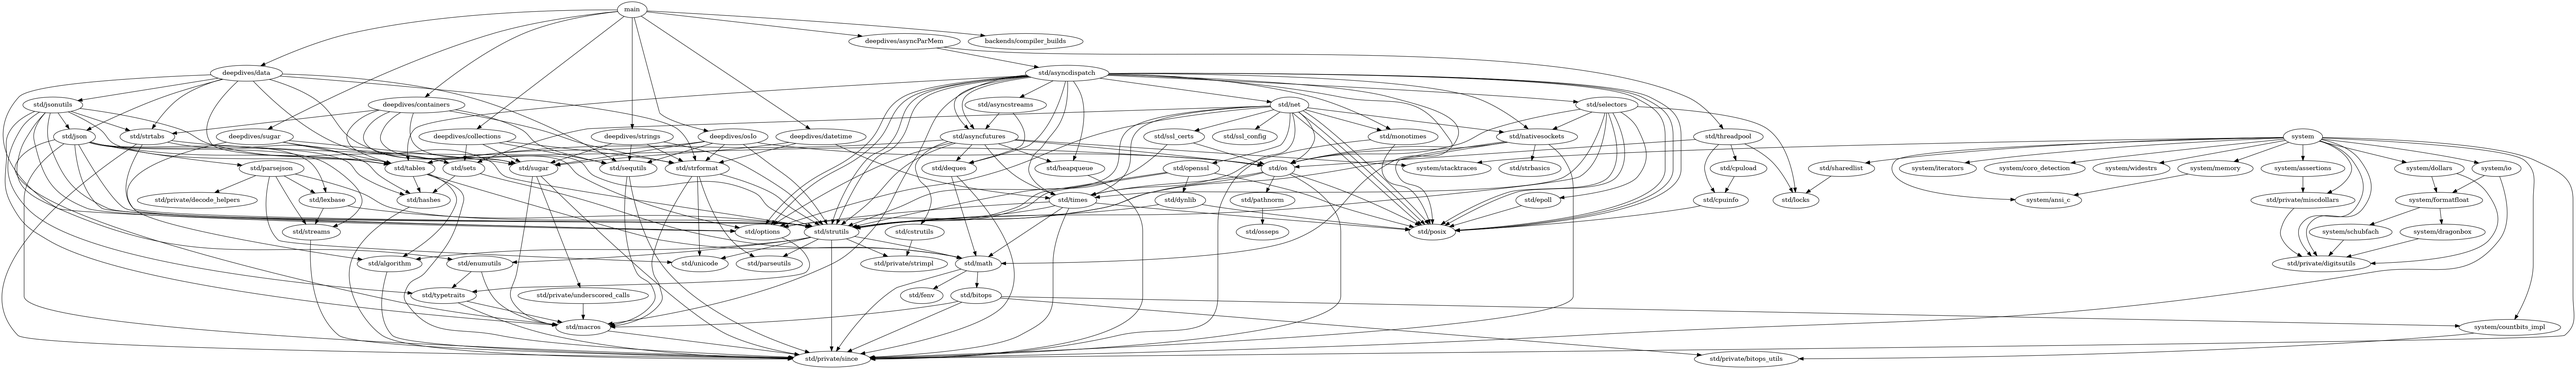
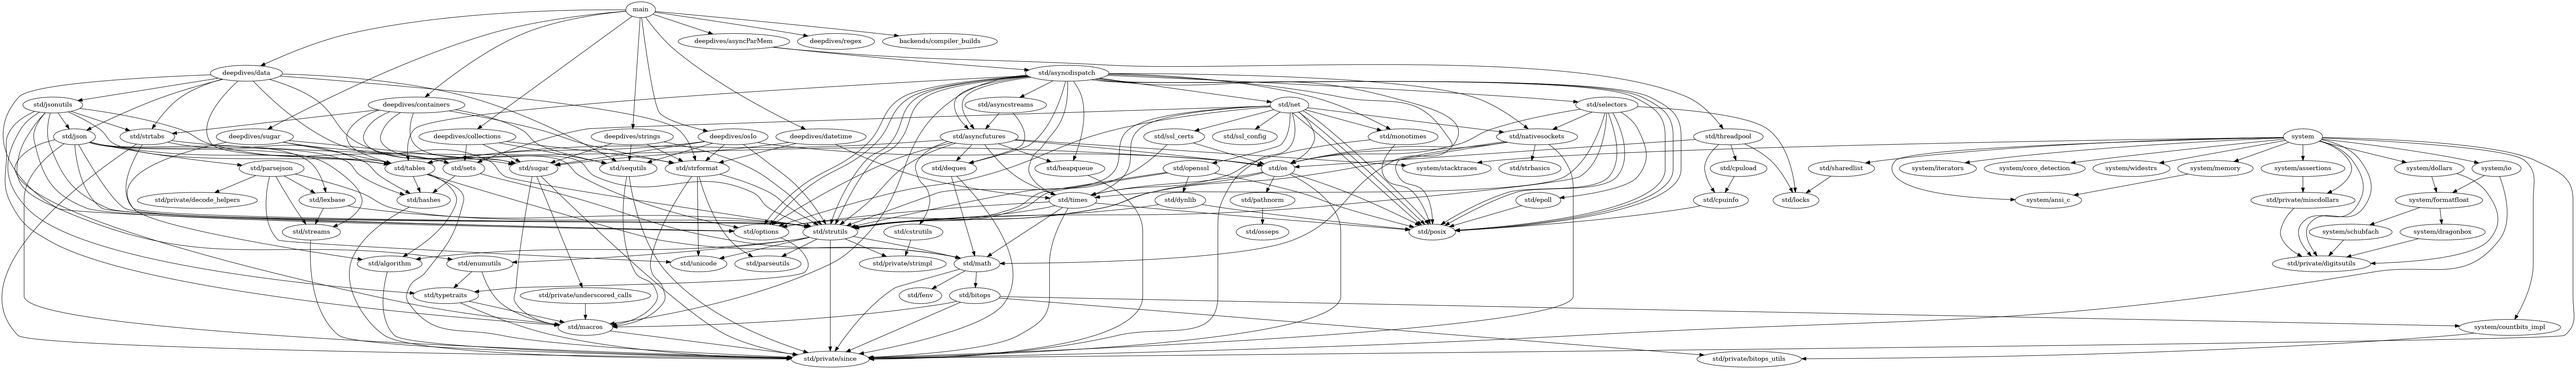
regex

diff --git a/htmldocs/deepdives/regex.html b/htmldocs/deepdives/regex.html
@@ -1,0 +1,145 @@
+<?xml version="1.0" encoding="utf-8" ?>
+<!DOCTYPE html PUBLIC "-//W3C//DTD XHTML 1.0 Transitional//EN"
+  "http://www.w3.org/TR/xhtml1/DTD/xhtml1-transitional.dtd">
+<!--  This file is generated by Nim. -->
+<html xmlns="http://www.w3.org/1999/xhtml" xml:lang="en" lang="en">
+<head>
+<meta http-equiv="Content-Type" content="text/html; charset=utf-8" />
+
+<meta name="viewport" content="width=device-width, initial-scale=1.0">
+
+<!-- Favicon -->
[2 lines of base64/hex data omitted]
+
+<!-- Google fonts -->
+<link href='https://fonts.googleapis.com/css?family=Lato:400,600,900' rel='stylesheet' type='text/css'/>
+<link href='https://fonts.googleapis.com/css?family=Source+Code+Pro:400,500,600' rel='stylesheet' type='text/css'/>
+
+<!-- CSS -->
+<title>deepdives/regex</title>
+<link rel="stylesheet" type="text/css" href="../nimdoc.out.css">
+
+<script type="text/javascript" src="../dochack.js"></script>
+
+<script type="text/javascript">
+function main() {
+  var pragmaDots = document.getElementsByClassName("pragmadots");
+  for (var i = 0; i < pragmaDots.length; i++) {
+    pragmaDots[i].onclick = function(event) {
+      // Hide tease
+      event.target.parentNode.style.display = "none";
+      // Show actual
+      event.target.parentNode.nextElementSibling.style.display = "inline";
+    }
+  }
+
+  function switchTheme(e) {
+      if (e.target.checked) {
+          document.documentElement.setAttribute('data-theme', 'dark');
+          localStorage.setItem('theme', 'dark');
+      } else {
+          document.documentElement.setAttribute('data-theme', 'light');
+          localStorage.setItem('theme', 'light');
+      }
+  }
+
+  const toggleSwitch = document.querySelector('.theme-switch input[type="checkbox"]');
+  if (toggleSwitch !== null) {
+    toggleSwitch.addEventListener('change', switchTheme, false);
+  }
+
+  var currentTheme = localStorage.getItem('theme');
+  if (!currentTheme && window.matchMedia('(prefers-color-scheme: dark)').matches) {
+    currentTheme = 'dark';
+  }
+  if (currentTheme) {
+    document.documentElement.setAttribute('data-theme', currentTheme);
+
+    if (currentTheme === 'dark' && toggleSwitch !== null) {
+      toggleSwitch.checked = true;
+    }
+  }
+}
+
+window.addEventListener('DOMContentLoaded', main);
+</script>
+
+</head>
+<body>
+<div class="document" id="documentId">
+  <div class="container">
+    <h1 class="title">deepdives/regex</h1>
+    <div class="row">
+  <div class="three columns">
+  <div class="theme-switch-wrapper">
+    <label class="theme-switch" for="checkbox">
+      <input type="checkbox" id="checkbox" />
+      <div class="slider round"></div>
+    </label>
+    &nbsp;&nbsp;&nbsp; <em>Dark Mode</em>
+  </div>
+  <div id="global-links">
+    <ul class="simple">
+    <li>
+      <a href="../theindex.html">Index</a>
+    </li>
+    </ul>
+  </div>
+  <div id="searchInputDiv">
+    Search: <input type="text" id="searchInput"
+      onkeyup="search()" />
+  </div>
+  <div>
+    Group by:
+    <select onchange="groupBy(this.value)">
+      <option value="section">Section</option>
+      <option value="type">Type</option>
+    </select>
+  </div>
+  <ul class="simple simple-toc" id="toc-list">
+<li><a class="reference" id="regex_toc" href="#regex">regex</a></li>
+
+</ul>
+
+  </div>
+  &nbsp;&nbsp;<a
+href="https://github.com/noahehall/nim/tree/develop/deepdives/regex.nim#L1"
+class="link-seesrc" target="_blank">Source</a>
+&nbsp;&nbsp;<a href="https://github.com/noahehall/nim/edit/devel/deepdives/regex.nim#L1" class="link-seesrc" target="_blank" >Edit</a>
+
+  <div class="nine columns" id="content">
+  <div id="tocRoot"></div>
+  
+  <p class="module-desc">
+<h1><a class="toc-backref" id="regex" href="#regex">regex</a></h1><p><a class="reference external" href="https://nim-lang.org/docs/strscans.html">bookmark</a></p>
+TLDR<ul class="simple"><li>dunno</li>
+</ul>
+<p>links</p>
+<ul class="simple"><li>high impact<ul class="simple"><li><a class="reference external" href="https://nim-lang.org/docs/pegs.html">peg matching</a></li>
+<li><a class="reference external" href="https://nim-lang.org/docs/re.html">regex</a></li>
+<li><a class="reference external" href="https://nim-lang.org/docs/strscans.html">string scans</a></li>
+<li><a class="reference external" href="https://nim-lang.github.io/fusion/src/fusion/matching.html">fusion matching</a></li>
+</ul>
+</li>
+<li>nitche<ul class="simple"><li><a class="reference external" href="https://nim-lang.org/docs/pcre.html">perl compatible regex</a></li>
+</ul>
+</li>
+</ul>
+</p>
+  
+  </div>
+</div>
+
+    <div class="row">
+      <div class="twelve-columns footer">
+        <span class="nim-sprite"></span>
+        <br/>
+        <small style="color: var(--hint);">Made with Nim. Generated: 2023-02-23 12:30:17 UTC</small>
+      </div>
+    </div>
+  </div>
+</div>
+
+</body>
+</html>

diff --git a/htmldocs/main.html b/htmldocs/main.html
@@ -131,7 +131,7 @@ class="link-seesrc" target="_blank">Source</a>
   <div class="section" id="6">
 <h1><a class="toc-backref" href="#6">Imports</a></h1>
 <dl class="item">
-<a class="reference external" href="deepdives/sugar.html">deepdives/sugar</a>, <a class="reference external" href="deepdives/collections.html">deepdives/collections</a>, <a class="reference external" href="deepdives/strings.html">deepdives/strings</a>, <a class="reference external" href="deepdives/containers.html">deepdives/containers</a>, <a class="reference external" href="deepdives/datetime.html">deepdives/datetime</a>, <a class="reference external" href="deepdives/osIo.html">deepdives/osIo</a>, <a class="reference external" href="deepdives/data.html">deepdives/data</a>, <a class="reference external" href="deepdives/asyncParMem.html">deepdives/asyncParMem</a>, <a class="reference external" href="backends/compiler_builds.html">backends/compiler_builds</a>
+<a class="reference external" href="deepdives/sugar.html">deepdives/sugar</a>, <a class="reference external" href="deepdives/collections.html">deepdives/collections</a>, <a class="reference external" href="deepdives/strings.html">deepdives/strings</a>, <a class="reference external" href="deepdives/containers.html">deepdives/containers</a>, <a class="reference external" href="deepdives/datetime.html">deepdives/datetime</a>, <a class="reference external" href="deepdives/osIo.html">deepdives/osIo</a>, <a class="reference external" href="deepdives/data.html">deepdives/data</a>, <a class="reference external" href="deepdives/asyncParMem.html">deepdives/asyncParMem</a>, <a class="reference external" href="deepdives/regex.html">deepdives/regex</a>, <a class="reference external" href="backends/compiler_builds.html">backends/compiler_builds</a>
 </dl></div>
 
   </div>
@@ -141,7 +141,7 @@ class="link-seesrc" target="_blank">Source</a>
       <div class="twelve-columns footer">
         <span class="nim-sprite"></span>
         <br/>
-        <small style="color: var(--hint);">Made with Nim. Generated: 2023-02-23 12:23:12 UTC</small>
+        <small style="color: var(--hint);">Made with Nim. Generated: 2023-02-23 12:30:17 UTC</small>
       </div>
     </div>
   </div>

diff --git a/htmldocs/theindex.html b/htmldocs/theindex.html
@@ -70,7 +70,7 @@ window.addEventListener('DOMContentLoaded', main);
 <div class="document" id="documentId">
   <div class="container">
     <h1 class="title">Index</h1>
-    Modules: <a href="backends/compiler_builds.html">backends/compiler_builds</a>, <a href="deepdives/asyncParMem.html">deepdives/asyncParMem</a>, <a href="deepdives/collections.html">deepdives/collections</a>, <a href="deepdives/containers.html">deepdives/containers</a>, <a href="deepdives/data.html">deepdives/data</a>, <a href="deepdives/datetime.html">deepdives/datetime</a>, <a href="deepdives/osIo.html">deepdives/osIo</a>, <a href="deepdives/strings.html">deepdives/strings</a>, <a href="deepdives/sugar.html">deepdives/sugar</a>, <a href="main.html">main</a>.<br/><p /><h2>API symbols</h2>
+    Modules: <a href="backends/compiler_builds.html">backends/compiler_builds</a>, <a href="deepdives/asyncParMem.html">deepdives/asyncParMem</a>, <a href="deepdives/collections.html">deepdives/collections</a>, <a href="deepdives/containers.html">deepdives/containers</a>, <a href="deepdives/data.html">deepdives/data</a>, <a href="deepdives/datetime.html">deepdives/datetime</a>, <a href="deepdives/osIo.html">deepdives/osIo</a>, <a href="deepdives/regex.html">deepdives/regex</a>, <a href="deepdives/strings.html">deepdives/strings</a>, <a href="deepdives/sugar.html">deepdives/sugar</a>, <a href="main.html">main</a>.<br/><p /><h2>API symbols</h2>
 <dl><dt><a name="afterwhile" href="#afterwhile"><span>afterwhile:</span></a></dt><dd><ul class="simple">
 <li><a class="reference external"
           data-doc-search-tag="asyncParMem: afterwhile" href="deepdives/asyncParMem.html#afterwhile">asyncParMem: afterwhile</a></li>
@@ -416,7 +416,7 @@ window.addEventListener('DOMContentLoaded', main);
       <div class="twelve-columns footer">
         <span class="nim-sprite"></span>
         <br/>
-        <small style="color: var(--hint);">Made with Nim. Generated: 2023-02-23 12:23:12 UTC</small>
+        <small style="color: var(--hint);">Made with Nim. Generated: 2023-02-23 12:30:17 UTC</small>
       </div>
     </div>
   </div>

diff --git a/htmldocs/backends/compiler_builds.html b/htmldocs/backends/compiler_builds.html
@@ -497,7 +497,7 @@ class="link-seesrc" target="_blank">Source</a>
       <div class="twelve-columns footer">
         <span class="nim-sprite"></span>
         <br/>
-        <small style="color: var(--hint);">Made with Nim. Generated: 2023-02-23 12:23:12 UTC</small>
+        <small style="color: var(--hint);">Made with Nim. Generated: 2023-02-23 12:30:17 UTC</small>
       </div>
     </div>
   </div>

diff --git a/htmldocs/deepdives/asyncParMem.html b/htmldocs/deepdives/asyncParMem.html
@@ -375,7 +375,7 @@ class="link-seesrc" target="_blank">Source</a>
       <div class="twelve-columns footer">
         <span class="nim-sprite"></span>
         <br/>
-        <small style="color: var(--hint);">Made with Nim. Generated: 2023-02-23 12:23:12 UTC</small>
+        <small style="color: var(--hint);">Made with Nim. Generated: 2023-02-23 12:30:17 UTC</small>
       </div>
     </div>
   </div>

diff --git a/htmldocs/deepdives/collections.html b/htmldocs/deepdives/collections.html
@@ -420,7 +420,7 @@ class="link-seesrc" target="_blank">Source</a>
       <div class="twelve-columns footer">
         <span class="nim-sprite"></span>
         <br/>
-        <small style="color: var(--hint);">Made with Nim. Generated: 2023-02-23 12:23:11 UTC</small>
+        <small style="color: var(--hint);">Made with Nim. Generated: 2023-02-23 12:30:17 UTC</small>
       </div>
     </div>
   </div>

diff --git a/htmldocs/deepdives/containers.html b/htmldocs/deepdives/containers.html
@@ -695,7 +695,7 @@ class="link-seesrc" target="_blank">Source</a>
       <div class="twelve-columns footer">
         <span class="nim-sprite"></span>
         <br/>
-        <small style="color: var(--hint);">Made with Nim. Generated: 2023-02-23 12:23:11 UTC</small>
+        <small style="color: var(--hint);">Made with Nim. Generated: 2023-02-23 12:30:17 UTC</small>
       </div>
     </div>
   </div>

diff --git a/htmldocs/deepdives/data.html b/htmldocs/deepdives/data.html
@@ -437,7 +437,7 @@ class="link-seesrc" target="_blank">Source</a>
       <div class="twelve-columns footer">
         <span class="nim-sprite"></span>
         <br/>
-        <small style="color: var(--hint);">Made with Nim. Generated: 2023-02-23 12:23:11 UTC</small>
+        <small style="color: var(--hint);">Made with Nim. Generated: 2023-02-23 12:30:17 UTC</small>
       </div>
     </div>
   </div>

diff --git a/htmldocs/deepdives/datetime.html b/htmldocs/deepdives/datetime.html
@@ -388,7 +388,7 @@ class="link-seesrc" target="_blank">Source</a>
       <div class="twelve-columns footer">
         <span class="nim-sprite"></span>
         <br/>
-        <small style="color: var(--hint);">Made with Nim. Generated: 2023-02-23 12:23:11 UTC</small>
+        <small style="color: var(--hint);">Made with Nim. Generated: 2023-02-23 12:30:17 UTC</small>
       </div>
     </div>
   </div>

diff --git a/htmldocs/deepdives/osIo.html b/htmldocs/deepdives/osIo.html
@@ -500,7 +500,7 @@ class="link-seesrc" target="_blank">Source</a>
       <div class="twelve-columns footer">
         <span class="nim-sprite"></span>
         <br/>
-        <small style="color: var(--hint);">Made with Nim. Generated: 2023-02-23 12:23:11 UTC</small>
+        <small style="color: var(--hint);">Made with Nim. Generated: 2023-02-23 12:30:17 UTC</small>
       </div>
     </div>
   </div>

diff --git a/htmldocs/deepdives/strings.html b/htmldocs/deepdives/strings.html
@@ -283,7 +283,7 @@ class="link-seesrc" target="_blank">Source</a>
       <div class="twelve-columns footer">
         <span class="nim-sprite"></span>
         <br/>
-        <small style="color: var(--hint);">Made with Nim. Generated: 2023-02-23 12:23:11 UTC</small>
+        <small style="color: var(--hint);">Made with Nim. Generated: 2023-02-23 12:30:17 UTC</small>
       </div>
     </div>
   </div>

diff --git a/htmldocs/deepdives/sugar.html b/htmldocs/deepdives/sugar.html
@@ -380,7 +380,7 @@ class="link-seesrc" target="_blank">Source</a>
       <div class="twelve-columns footer">
         <span class="nim-sprite"></span>
         <br/>
-        <small style="color: var(--hint);">Made with Nim. Generated: 2023-02-23 12:23:11 UTC</small>
+        <small style="color: var(--hint);">Made with Nim. Generated: 2023-02-23 12:30:16 UTC</small>
       </div>
     </div>
   </div>
